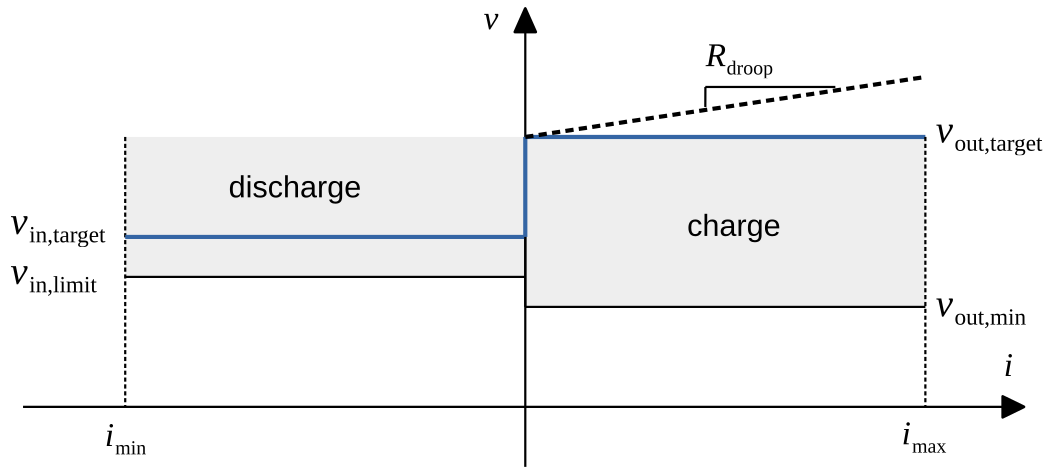
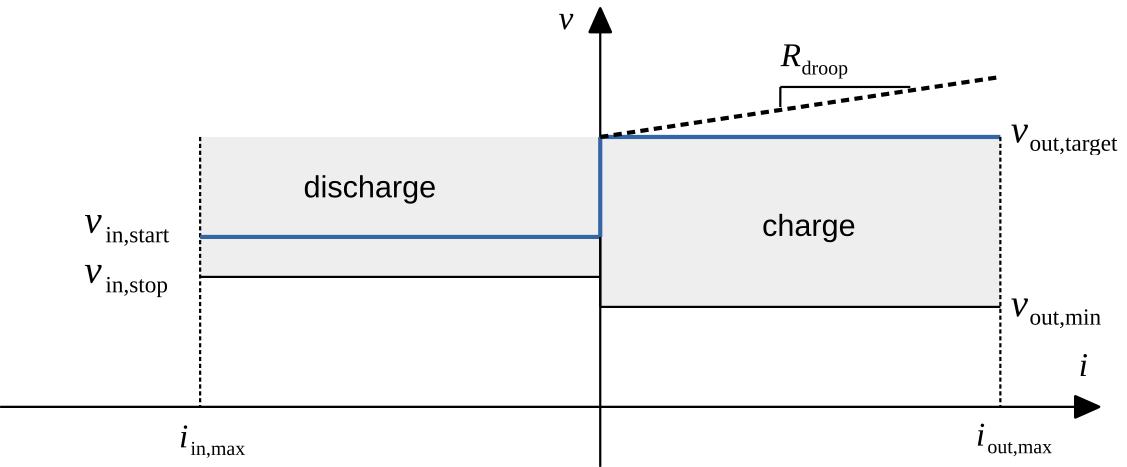
DC/DC control page updated

diff --git a/_docs/1b_dcdc_control.md b/_docs/1b_dcdc_control.md
@@ -21,8 +21,8 @@ All ports share the same set of calibration parameters which makes it easy to co
 | v<sub>out,target</sub> | Maximum voltage of an output port (e.g. charging voltage of a battery)                        |
 | v<sub>out,min</sub>    | Minimum voltage to allow current output (e.g. to prevent charging deep-discharged batteries)  |
 | R<sub>droop</sub>      | Allows to adjust the target voltage depending on output/input current                         |
-| v<sub>in,target</sub>  | Voltage threshold at which input current is reduced. Below this voltage, the DC/DC should not start up. |
-| v<sub>in,limit</sub>   | Voltage threshold at which the DC/DC is switched off (e.g. to prevent deep-discharge of a battery) |
+| v<sub>in,start</sub>   | Voltage threshold at which input current is reduced. Below this voltage, the DC/DC should not start up. |
+| v<sub>in,stop</sub>    | Voltage threshold at which the DC/DC is switched off (e.g. to prevent deep-discharge of a battery) |
 | i<sub>min</sub>        | Maximum input current (e.g. discharging a battery)  |
 | i<sub>max</sub>        | Maximum output current (e.g. charging a battery)  |
 
@@ -31,7 +31,7 @@ All ports share the same set of calibration parameters which makes it easy to co
 
 A solar panel port always acts as an input. Even though reverse current flow into the solar panel is physically possible (see elongated blue characteristic curve), it is not desirable and should be prevented by the charge controller algorithm and/or hardware.
 
-Above v<sub>in,target</sub> (around 17 V for a so-called 12 V panel), the charge controller is switched on and starts current input from the solar panel. If the voltage drops during dusk, the charge controller shuts down at v<sub>in,limit</sub> (around 15 V for a 12 V panel).
+Above v<sub>in,start</sub> (around 17 V for a so-called 12 V panel), the charge controller is switched on and starts current input from the solar panel. If the voltage drops during dusk, the charge controller shuts down at v<sub>in,stop</sub> (around 15 V for a 12 V panel).
 
 ![DC/DC control for solar port](/images/dcdc_port_solar.png)
 
@@ -45,8 +45,8 @@ Batteries can be used as an input and as an output. The following table shows ty
 |------------------------|-----------------------|-------------------------|
 | v<sub>out,target</sub> |  14.4 V (absorption)  | 14.2 V                  |
 | v<sub>out,min</sub>    |  10 V                 | 10.4 V                  |
-| v<sub>in,target</sub>  |  12.8 V               | 12.6 V                  |
-| v<sub>in,limit</sub>   |  11.7 V               | 12.0 V                  |
+| v<sub>in,start</sub>   |  12.8 V               | 12.6 V                  |
+| v<sub>in,stop</sub>    |  11.7 V               | 12.0 V                  |
 
 The droop resistance can be used to compensate the wire resistance if known (the value of R<sub>droop</sub> has to be negative).
 
@@ -62,6 +62,8 @@ During start-up of the nanogrid port, the DC/DC controller raises the voltage un
 
 v<sub>target</sub> = v<sub>out,target</sub> - i * R<sub>droop</sub>
 
-If another energy producer is connected to the grid (e.g. a solar panel using an additional DC/DC converter), the voltage will rise. As soon as it reaches v<sub>in,target</sub>, the nanogrid controller will start charging the battery from the grid. Again, the current will only rise slowly with increased voltage to allow smooth transitions and control of the grid.
+If another energy producer is connected to the grid (e.g. a solar panel using an additional DC/DC converter), the voltage will rise. As soon as it reaches v<sub>in,start</sub>, the nanogrid controller will start charging the battery from the grid. Again, the current will only rise slowly with increased voltage to allow smooth transitions and control of the grid.
 
-The hysteresis between v<sub>out,target</sub> and v<sub>in,target</sub> is necessary to prevent unnecessary energy transmission between multiple batteries attached to the grid.
+For a nanogrid port, the v<sub>in,stop</sub> threshold is set to something very low, lower than v<sub>out,target</sub>, as the DCDC should not stop at low input voltage, but change the current direction insead.
+
+The hysteresis between v<sub>out,target</sub> and v<sub>in,start</sub> is necessary to prevent unnecessary energy transmission between multiple batteries attached to the grid.

diff --git a/_pages/about.md b/_pages/about.md
@@ -26,9 +26,11 @@ Thank you!
 
 Responsible for the content of this website / Verantwortlich für den Inhalt der Webseite:
 
-Dr. Martin Jäger
-Hein-Hoyer-Str. 18
-20359 Hamburg
+Dr. Martin Jäger<br/>
+Hein-Hoyer-Str. 18<br/>
+20359 Hamburg<br/>
 
-Telefon: +49 (0) 160 94179007
-E-Mail: info at libre dot solar
+Telefon: +49 (0) 160 94179007<br/>
+E-Mail: info at libre dot solar<br/>
+
+**Remark:** I don't answer technical questions via E-Mail. Please use the [community platform](https://talk.libre.solar) instead, so that others with similar questions can also find the information.
